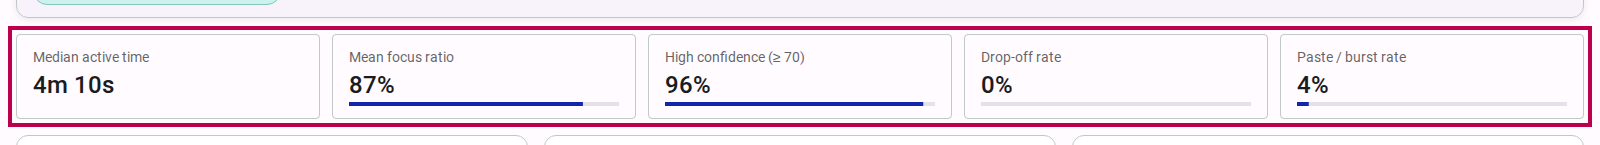
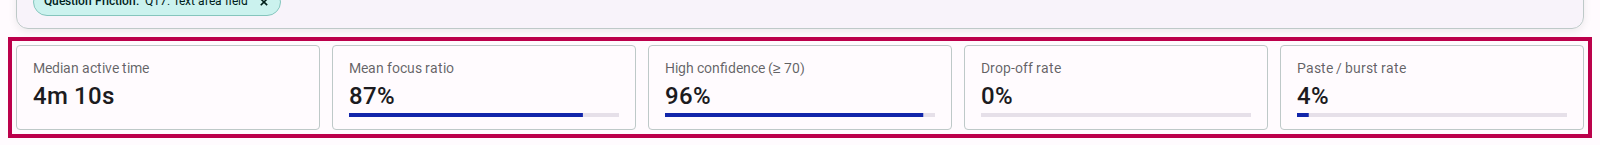
docs(app-survey): fix analytics image links and rewrite dataset export guide

diff --git a/src/survey/how-to/analytics-export.spec.ts b/src/survey/how-to/analytics-export.spec.ts
@@ -1,25 +1,56 @@
 import { test } from '@playwright/test'
 import { Context } from '../../Context.ts'
+import { initializeSignedInPage } from '../../utils/initializeSignedInPage.ts'
 
-const port = '7173'
-const baseUrl = `http://localhost:${port}` // playwright team
+const port = process.env.PLAYWRIGHT_PORT || '7174'
+const baseUrl = `http://localhost:${port}`
+const surveyId = '3BBFzJneqakYoyDu02c2'
+const analyticsPath = `s/analyze/survey/${surveyId}/default/analyze`
+const mainPath = 'docs/app/survey/how-to'
+const surveyHabitsLabel = 'How many surveys do you run in a typical year?'
 
-test.describe('Survey Analytics & Export How-To', async () => {
-  test('Analytics & Export', async ({ page }) => {
-
-    const context = new Context(
-      'app/survey/how-to',
-      page
-    )
-    await page.setViewportSize({ width: 1600, height: 1080 })
-    await page.goto(baseUrl)
-
-    // ## Survey Analytics
-    context.setName('survey-analytics')
-
-    // ## Exporting Survey Data
+test.describe('Exporting survey data', async () => {
+  test('Export dataset workflow', async ({ page }) => {
+    test.setTimeout(120_000)
+    const context = new Context(mainPath, page)
     context.setName('exporting-survey-data')
 
-    return
+    await initializeSignedInPage(page, baseUrl, analyticsPath)
+    await page.getByTestId('analytics-row-counter').waitFor()
+
+    await test.step('Locate the export button in the toolbar', async () => {
+      const exportButton = page.getByTestId('analytics-export-button')
+      await context.annotatedScreenshot(exportButton, 'step-1-export-button', 40)
+    })
+
+    await test.step('Open the export dataset dialog', async () => {
+      await page.getByTestId('analytics-export-button').click()
+      const dialog = page.getByRole('dialog', { name: 'Export dataset' })
+      await dialog.waitFor()
+      await context.annotatedScreenshot(dialog, 'step-2-export-dialog', 20)
+      await page.getByRole('button', { name: 'Cancel' }).click()
+      await page.waitForTimeout(300)
+    })
+
+    await test.step('Export a filtered cohort', async () => {
+      const barCard = page
+        .locator('lapp-analytics-card')
+        .filter({ has: page.getByRole('heading', { name: surveyHabitsLabel }) })
+      const bar = barCard.locator('plot-chart svg[role="img"] rect[data-key]').first()
+      await bar.evaluate((element) => element.scrollIntoView({ block: 'center' }))
+      await page.waitForTimeout(300)
+
+      const box = await bar.boundingBox()
+      if (!box) throw new Error('Chart bar has no bounding box')
+      await page.mouse.click(box.x + box.width / 2, box.y + box.height / 2)
+      await page.getByTestId('analytics-active-filter-badge').waitFor()
+
+      await page.getByTestId('analytics-export-button').click()
+      const dialog = page.getByRole('dialog', { name: 'Export dataset' })
+      await dialog.waitFor()
+      await context.annotatedScreenshot(dialog, 'step-3-filtered-export', 20)
+      await page.getByRole('button', { name: 'Cancel' }).click()
+      await page.getByTestId('analytics-reset-filters').click()
+    })
   })
 })

diff --git a/docs/app/survey/how-to/exporting-survey-data.md b/docs/app/survey/how-to/exporting-survey-data.md
@@ -1,61 +1,79 @@
 ---
-description: This page describes how you can export survey data for further analysis
+description: How to export survey responses and behavioral paradata in CSV or JSON formats for spreadsheet or statistical analysis.
 ---
 
-# Exporting Survey Data
+# How to Export Survey Data
 
-::: warning
-If you export data from the platform, you are responsible for the privacy of the exported data. Exported data must be treated in line with relevant data protection regulations such as GDPR
+::: warning Data Privacy and Compliance
+When exporting survey data from the platform, you are responsible for maintaining respondent privacy. Exported datasets must be handled in compliance with relevant data protection regulations such as GDPR and CCPA. Never share raw survey files containing identifiable personal information outside authorized teams.
 :::
 
-::: info
-Exporting your data from the platform is a sensitive action.  You need to have the necessary user rights and have signed into your account recently in order to export survey data.  If you get an error message it means that you don't have the necessary rights or you need to sign out of your account and sign in again and try again.
+::: info Permissions Required
+Exporting survey datasets is a restricted administrative action. You must have Editor, Admin, or Owner permissions on the survey to export data.
 :::
 
-## Step 1
+## 1. Locating the Export Action
 
-From the analytics page, click on the three lines beside the survey name in the top menu
+Survey data is exported directly from the **Analyze** workspace:
 
-This will expand the view and display the 'download' symbol
+1. Open your survey and navigate to the **Analyze** tab.
+2. In the top toolbar, click the **Export** button.
 
-<lite-youtube videoid="ICCaPpUXqp0"></lite-youtube>
+<figure>
+  <img src="./assets/exporting-survey-data/step-1-export-button.png" alt="Export button in the analytics top toolbar">
+  <figcaption>Click the <strong>Export</strong> button in the analytics toolbar to open the dataset export dialog.</figcaption>
+</figure>
 
-## Step 2
+## 2. Configuring the Export Options
 
-A privacy warning window will be activated, reminding you of your data protection and data privacy responsibilities.
+The **Export dataset** dialog opens over the workbench:
 
-You will need to tick the box confirming that you understand these responsibilitis before you can export survey data
+<figure>
+  <img src="./assets/exporting-survey-data/step-2-export-dialog.png" alt="Export dataset modal dialog with format selection and download controls">
+  <figcaption>Configure the export filename, file format, and column selection.</figcaption>
+</figure>
 
-## Step 4
+1. **Export file name**: The default filename follows the pattern `{survey-name}-all-pages-{date}.csv`. You can rename the file before downloading.
+2. **Select file format**:
+   - **CSV (spreadsheet)**: Comma-separated tabular data. Opens directly in spreadsheet applications (Microsoft Excel, Google Sheets) and statistical environments (R, SPSS, Stata, Python/pandas).
+   - **JSON**: Hierarchical structured data. Ideal for automated data pipelines, custom web integrations, and database ingest.
+3. **Select columns**:
+   - **All**: Exports all standard metadata fields, submission timestamps, and decoded question answers.
 
-There are various options for to chose from when exporting survey data
+## 3. Exporting Filtered Subsets
 
-## Step 5
+The export engine is linked to the analytics cross-filtering system:
 
-First select the data form that you want to export your data in. There are two choices:
+- **Full batch export**: When no chart filters are applied, the dialog indicates *Exporting all loaded responses* and downloads the entire dataset.
+- **Filtered cohort export**: If you have filtered the dataset by clicking chart marks or metadata chips (e.g., respondents from a specific country or who answered a particular question), the dialog automatically scopes the export to that cohort.
 
-**json**- JavaScript Object Notation (JSON) is a standard text-based format for representing structured data based on JavaScript object syntax. It is commonly used for transmitting data in web applications (e.g., sending some data from the server to the client, so it can be displayed on a web page, or vice versa)
+<figure>
+  <img src="./assets/exporting-survey-data/step-3-filtered-export.png" alt="Export dialog indicating a filtered subset of responses will be downloaded">
+  <figcaption>When cross-filters are active, the export dialog automatically restricts the download to the filtered cohort.</figcaption>
+</figure>
 
-**CSV**- A CSV is a comma-separated values file, which allows data to be saved in a tabular format. CSVs look like a spreadsheet but with a . csv extension. CSV files can be used with most any spreadsheet program, such as Microsoft Excel or Google Spreadsheets
+1. Click **Download** to save the file to your computer.
 
-## Step 6
+## 4. Exporting Behavioral Paradata
 
-Next select the type of data that you would like to export. There are three choices:
+To export enriched behavioral paradata (including Confidence Index scores, quality flags, active interaction duration, idle time, focus ratios, and question-level dwell times):
 
-**Anonymized**- Provides the option of exporting an anonymized data set. MetaData and all fields marked as anonymous ('private') on your form will not be exported. This is a great option for protecting personal data as long as you have marked all questions which ask for personal data as private
+1. Navigate to the **Behavior** tab in the survey Analyze navigation.
+2. Apply any desired behavioral filters (e.g. filtering to respondents with high confidence or specific quality signals).
+3. Click the **Export** button in the behavioral toolbar.
+4. The downloaded file contains all survey responses enriched with behavioral paradata columns for statistical regression and data hygiene reporting.
 
-::: warning
-Anonymization is applied at submission, not at download: each response is anonymized when the respondent submits, using the build they actually answered. A question marked anonymous later will not be removed from responses collected before the change. Mark personal-data questions as anonymous **before** you start collecting responses, and see [Anonymized exports](../explanation/data-privacy-and-security.md#anonymized-exports) for what this means for data you have already collected.
-:::
+## 5. Handling Anonymous and Sensitive Data
 
-**Raw-** Provides the option of exporting all the data that has been collected against a survey, including MetaData and all response feilds. Great care should be taken with this sort of data.
+The platform enforces data protection rules at export time:
 
-**Humanized**- Similar to raw data, but with transalated responses and question lookups added
+- **Private & Anonymous Fields**: Questions configured with the *Anonymous* setting in Advanced Mode have their personal data excluded from exports.
+- **Excluded Responses**: Any response excluded using the *Remove from dataset* action in the Behavioral Respondent Log is omitted from analytical exports, ensuring clean downstream reporting.
 
-## Step 7
+---
 
-Once you have decided how you want to export the survey data, select 'Export Now'
+## Related Content
 
-## Step 8
-
-The data will start downloading automatically
+- [How to Analyze Survey Responses](./survey-analytics.md): Interactive cross-filtering and cohort analysis.
+- [How to Analyze Respondent Behavior and Data Quality](./behavior-analytics.md): Inspecting timing paradata, quality signals, and excluding low-effort submissions.
+- [Data Privacy and Security](../explanation/data-privacy-and-security.md): Architectural principles behind respondent anonymization and account separation.

diff --git a/docs/app/survey/how-to/survey-analytics.md b/docs/app/survey/how-to/survey-analytics.md
@@ -29,8 +29,8 @@ To access survey analytics:
 The header summary bar indicates the currently selected distribution batch, the total number of submitted responses, and the active filter count.
 
 <figure>
-  <img src="./assets/survey-analytics/step-2-active-batch.png" alt="Active batch chip showing batch name and respondent count">
-  <figcaption>The active batch indicator displays the current distribution batch and total submitted responses.</figcaption>
+  <img src="./assets/survey-analytics/step-2-selection-summary.png" alt="Selection summary toolbar showing total responses and toolbar actions">
+  <figcaption>The selection summary toolbar displays total responses, filter reset, layout density, and export controls.</figcaption>
 </figure>
 
 ::: tip
@@ -69,12 +69,18 @@ To change which metadata cards appear in the top band:
 
 Survey questions are organized under the **Pages** tab bar beneath the metadata band:
 
-1. Select any page tab (e.g. *Survey habits*, *Demographics*, *Feedback*) to view the question cards belonging to that page.
-2. Within a page, questions are grouped into collapsible sections matching your survey composition. Click any section header to collapse or expand its question cards.
-3. Each question card displays the question text, response distribution chart, and sample size ($n$).
+1. Select any page tab (e.g. *Survey habits*, *Experience*, *About you*, *Content Page*) to view the question cards belonging to that page.
 
 <figure>
-  <img src="./assets/survey-analytics/step-4-survey-page.png" alt="Survey page view with question cards and response distributions">
+  <img src="./assets/survey-analytics/step-4-page-tabs.png" alt="Survey page navigation tabs">
+  <figcaption>The page tabs bar organizes questions by survey pages.</figcaption>
+</figure>
+
+1. Within a page, questions are grouped into collapsible sections matching your survey composition. Click any section header to collapse or expand its question cards.
+2. Each question card displays the question text, response distribution chart, and sample size ($n$).
+
+<figure>
+  <img src="./assets/survey-analytics/step-4-experience-charts.png" alt="Question cards displaying response distributions">
   <figcaption>Survey questions displayed as cards grouped under their respective survey page tab.</figcaption>
 </figure>
 
@@ -89,19 +95,25 @@ Question cards automatically select the optimal chart representation based on th
 Every chart element functions as a live filter. You can isolate any cohort across the entire survey with a single click:
 
 1. Click any chart mark (a slice of a donut chart, a bar, or a histogram bin).
-2. The selected mark highlights, and every other chart across all pages immediately recalculates to display only responses matching that criterion.
-3. The summary toolbar updates instantly, displaying the count and percentage of matching respondents (e.g. `12 / 103 (12%)`).
 
 <figure>
-  <img src="./assets/survey-analytics/step-5-filter-by-chart.png" alt="Filtering responses by clicking a chart slice or bar">
+  <img src="./assets/survey-analytics/step-5-click-chart-bar.png" alt="Filtering responses by clicking a chart slice or bar">
   <figcaption>Clicking a chart mark instantly cross-filters all other charts across the entire survey.</figcaption>
 </figure>
 
-1. An active filter chip appears in the top toolbar showing the filter dimension and selected value (e.g. `Language: English`).
+1. The selected mark highlights, and every other chart across all pages immediately recalculates to display only responses matching that criterion.
+2. The summary toolbar updates instantly, displaying the count and percentage of matching respondents (e.g. `10 / 103 (10%)`), accompanied by an active filter chip.
 
 <figure>
-  <img src="./assets/survey-analytics/step-5-filter-summary.png" alt="Active filter chip in the summary toolbar">
+  <img src="./assets/survey-analytics/step-5-active-filter.png" alt="Active filter chip in the summary toolbar">
   <figcaption>The active filter chip shows the current criteria and updates the matching respondent count.</figcaption>
+</figure>
+
+1. All other charts in the workbench reflect the filtered distribution:
+
+<figure>
+  <img src="./assets/survey-analytics/step-5-filtered-chart.png" alt="Question card reflecting filtered distribution">
+  <figcaption>Question cards update their distributions and sample sizes to reflect the filtered cohort.</figcaption>
 </figure>
 
 ### Combining Multiple Filters
@@ -114,21 +126,22 @@ To reset filters:
 
 - Click the **×** (remove) icon on any individual filter chip to drop that specific filter.
 - Click the highlighted slice or bar on the originating chart to toggle the filter off.
-- Click **Clear all filters** in the toolbar to restore the entire dataset.
-
-<figure>
-  <img src="./assets/survey-analytics/step-6-clear-filter.png" alt="Clearing an active filter chip">
-  <figcaption>Click the clear button on an active filter chip to restore the full dataset.</figcaption>
-</figure>
+- Click **Reset all filters** in the toolbar to restore the entire dataset.
 
 ## 5. Inspecting Individual Responses
 
-To drill down into individual respondent submissions matching your current view:
+Below the question cards, the Responses table lists all individual submissions matching the active filters:
 
-1. Hover over any question card to reveal the card action icons.
-2. Click the **Info** (details) icon in the card header.
-3. The Response Inspector dialog opens, displaying the individual answers submitted for that question.
-4. Use the pagination controls to step through matching respondent submissions one by one.
+<figure>
+  <img src="./assets/survey-analytics/step-6-response-grid.png" alt="Responses table listing individual submissions">
+  <figcaption>The responses table lists individual records matching the active filter criteria.</figcaption>
+</figure>
+
+To drill down into full answers:
+
+1. Click any row in the responses table, or hover over a question card and click the **Info** action.
+2. The Response Inspector dialog opens, displaying the complete answers submitted by that respondent.
+3. Use the pagination controls to step through matching respondent submissions one by one.
 
 <figure>
   <img src="./assets/survey-analytics/step-7-response-details.png" alt="Individual response details inspector dialog">
@@ -221,7 +234,7 @@ Analytics Views allow you to preserve distinct analytical perspectives (e.g. "Ac
 </figure>
 
 <figure>
-  <img src="./assets/survey-analytics/step-12-saved-view.png" alt="Saved views dropdown selector">
+  <img src="./assets/survey-analytics/step-12-view-selector.png" alt="Saved views dropdown selector">
   <figcaption>Switch between saved analytics views to immediately restore custom layouts and filter sets.</figcaption>
 </figure>
 

diff --git a/docs/app/survey/how-to/behavior-analytics.md b/docs/app/survey/how-to/behavior-analytics.md
@@ -162,26 +162,21 @@ Every behavioral chart mark serves as a dynamic cross-filter. Clicking any eleme
   <figcaption>Active behavioral filter chips isolate subsets (e.g. low-confidence or high-friction respondents).</figcaption>
 </figure>
 
-1. The entire KPI strip and respondent log immediately recalculate to reflect only that cohort.
+1. The entire KPI strip and respondent log immediately recalculate to reflect only that cohort:
 
 <figure>
   <img src="./assets/behavior-analytics/step-6-filtered-kpis.png" alt="Dynamically updated KPI strip reflecting filtered respondent subset">
   <figcaption>All KPI metrics update instantly to reflect the characteristics of the filtered cohort.</figcaption>
 </figure>
 
-1. To reset, click the **×** on the filter chip or click **Clear all filters**.
-
-<figure>
-  <img src="./assets/behavior-analytics/step-7-clear-filters.png" alt="Clearing behavioral filter chips">
-  <figcaption>Click the clear button on any behavioral chip to return to the aggregate dataset.</figcaption>
-</figure>
+1. To reset filters, click the **×** on the filter chip or click **Reset all filters** in the toolbar.
 
 ## 7. Auditing Responses in the Behavioral Respondent Log
 
 The tabular **Behavioral Respondent Log** below the charts provides an auditable row-by-row breakdown of each session:
 
 <figure>
-  <img src="./assets/behavior-analytics/step-8-respondent-log.png" alt="Behavioral respondent log grid with per-respondent behavioral metrics">
+  <img src="./assets/behavior-analytics/step-7-respondent-log.png" alt="Behavioral respondent log grid with per-respondent behavioral metrics">
   <figcaption>The Respondent Log provides an auditable breakdown of timing, edits, and quality signals per response.</figcaption>
 </figure>
 
@@ -210,7 +205,7 @@ To analyze a specific respondent's trajectory through the survey:
    - Distinct highlight for the respondent's slowest question and drop-off point.
 
 <figure>
-  <img src="./assets/behavior-analytics/step-8-respondent-inspector.png" alt="Respondent inspector dialog showing question-by-question timing breakdown">
+  <img src="./assets/behavior-analytics/step-8-respondent-details.png" alt="Respondent inspector dialog showing question-by-question timing breakdown">
   <figcaption>The respondent inspector details question-level attention and identifies individual slowest questions.</figcaption>
 </figure>
 

diff --git a/docs/app/survey/how-to/REF.md b/docs/app/survey/how-to/REF.md
@@ -123,3 +123,8 @@
 - [app/app-survey/src/analytics/behavioral-adapter.ts](../../../../../app/app-survey/src/analytics/behavioral-adapter.ts): Pure behavioral projections — KPI aggregations, Confidence Index scoring, QualityFlag schema, friction summary (median, IQR, hesitation hotspots), and tabular respondent log rows.
 - [app/app-survey/src/page/analyze/responseExclusionAction.ts](../../../../../app/app-survey/src/page/analyze/responseExclusionAction.ts): Client action invoking the server-side response exclusion and restoration pipelines.
 - [lit-app/schema/survey/exclusion.ts](../../../../../lit-app/schema/survey/exclusion.ts): Schema definition for response exclusions, reason codes (`test`, `bot`, `speeder`, `duplicate`, `quality`, `inappropriate`), and audit trail metadata.
+
+## Exporting survey data - exporting-survey-data
+
+- [lit-app/analytics/src/export-dialog.ts](../../../../../lit-app/analytics/src/export-dialog.ts): Dataset export dialog (`lapp-analytics-export-dialog`) — export filename formatting, format radio selection (CSV/JSON), column selection, and download dispatch.
+- [lit-app/analytics/src/export-dataset.ts](../../../../../lit-app/analytics/src/export-dataset.ts): Dataset serialization routines converting loaded or filtered cube rows into CSV or JSON strings.
